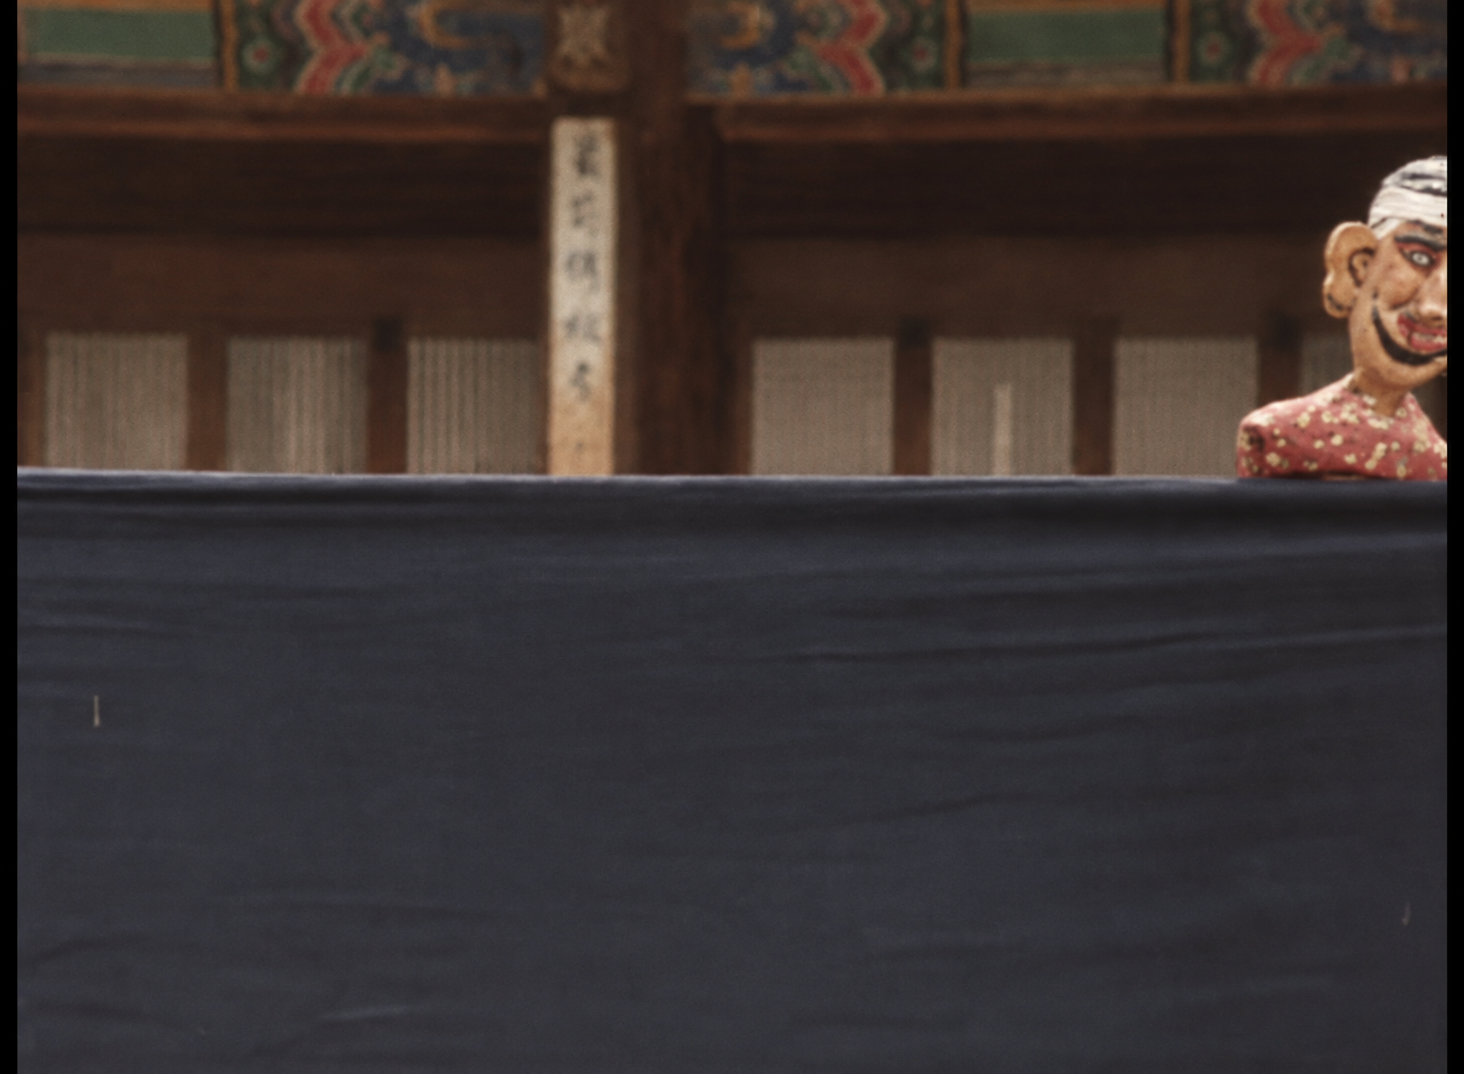
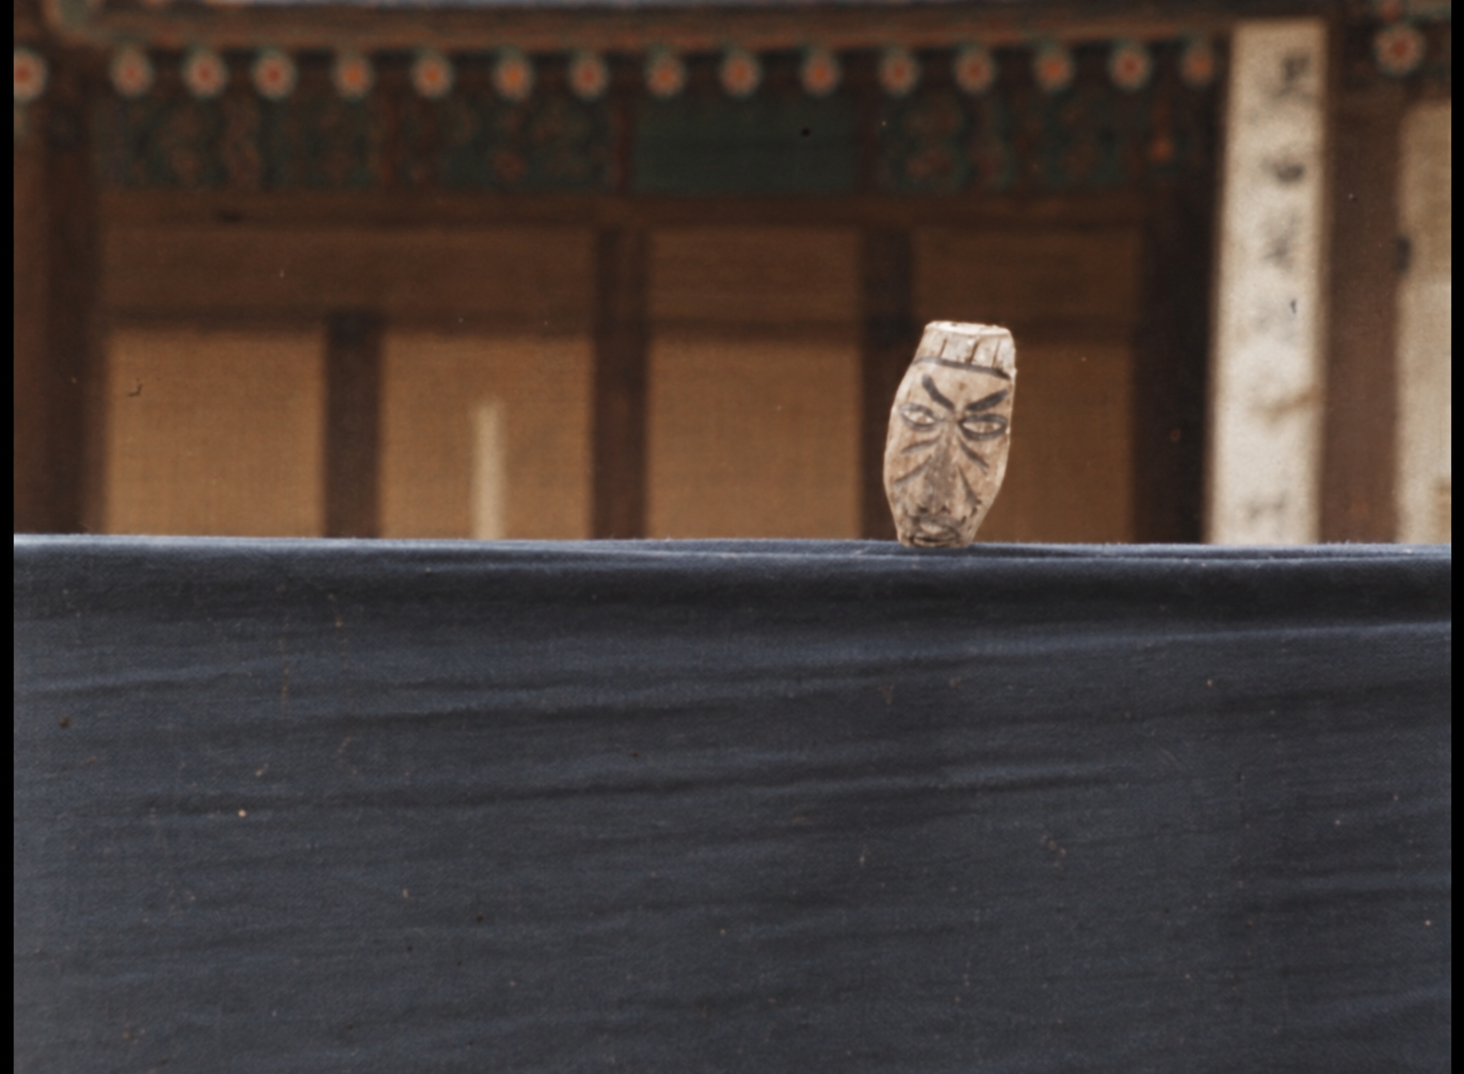
create: 덜미 남사당놀이 이미지 컬러화

diff --git a/99_Logs/2026/2026년 9월 작업 로그.md b/99_Logs/2026/2026년 9월 작업 로그.md
@@ -4,10 +4,20 @@ type: log
 status: stable
 tags: [log]
 created: 2026-09-01
-updated: 2026-09-22
+updated: 2026-09-23
 ---
 
 # 2026년 9월 작업 로그
+
+## [2026-09-23] create | 덜미 남사당놀이 이미지 7장 컬러화
+
+- `assets/영상/덜미/남사당놀이_1.png`부터 `남사당놀이_7.png`까지를 각각 이미지 편집 도구로 컬러화함. 흑백 원본 7장은 보존하고 같은 폴더에 `_컬러.png` 파일을 추가함
+- 기존 `남사당놀이_0_컬러.png`를 공통 색상 기준으로 사용해 청회색 기와, 따뜻한 갈색 목재, 절제된 단청, 짙은 먹색 무대 천과 낡은 목각인형 색을 일관되게 적용함. 5번 결과는 6번과 7번의 흰 머리 인형 색상 기준으로도 사용함
+- 결과 7장은 각각 1464×1074 RGB PNG임. 원본의 구도, 인형 수와 위치, 인형 얼굴과 의상, `남사당` 글자 및 필름의 부드러움과 먼지 흔적을 유지하도록 지시함. 원본에서 확인할 수 없는 색은 역사적 사실을 확정한 색이 아니라 생성 결과임
+- P1 자기검수에서 흑백 원본과 결과를 대조해 주요 배치, 인형 수, 읽을 수 있는 글자와 장면 간 색상 일관성을 확인함. P5 자기검수에서 위키 문서와 anchor는 변경하지 않았음을 확인함
+- 자동 검사: 전체 작업 트리 lint의 기존 오류 1건과 경고 27건은 사용자 작업 중인 미등록 작업 노트와 기존 링크에서 발생해 이번 생성 파일과 무관함. 인용 어긋남은 0건임. 커밋 훅에서 스테이징된 변경의 넘버링, lint와 인용 검사를 별도로 확인함
+- G1 판정: 영상용 이미지 자산이므로 사용자 확인 대기
+- 생성 파일: `assets/영상/덜미/남사당놀이_1_컬러.png`부터 `남사당놀이_7_컬러.png`까지 7장; 수정 파일: `99_Logs/2026/2026년 9월 작업 로그.md`
 
 ## [2026-09-22] create | 실사 유저 인형 포즈의 후면 이미지 생성
 
